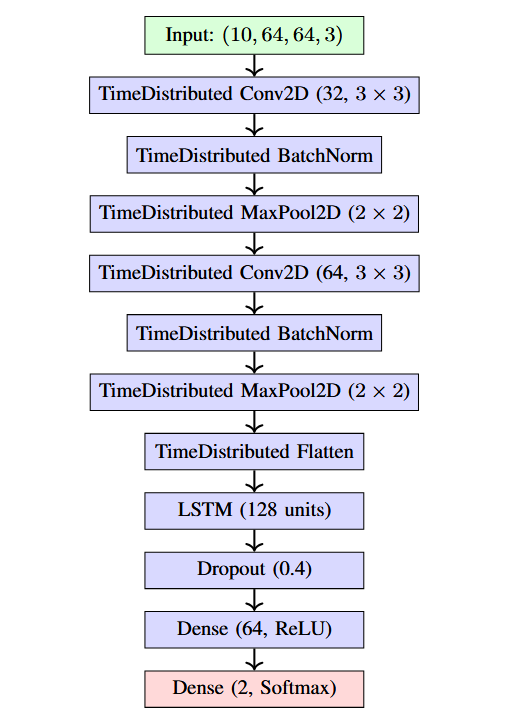
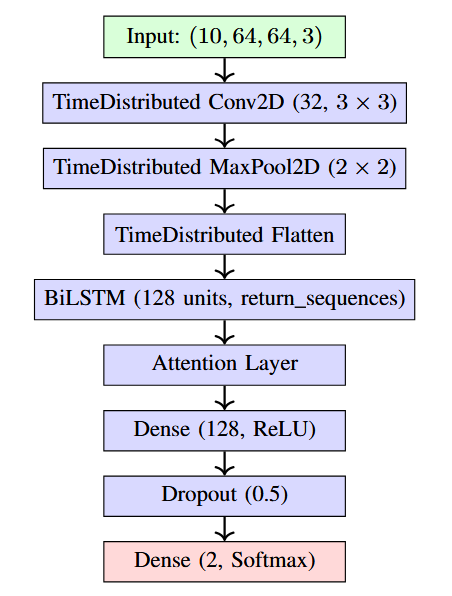
Minor report fixes

diff --git a/Final Report/report.tex b/Final Report/report.tex
@@ -81,7 +81,7 @@ By combining geospatial interactivity and deep learning, this system offers a us
 \section{Introduction}
 %%---------------------------------------------------------------------------------------------------------------------------------------------------------------------------------------------
 
-Harmful Algal Blooms (HABs) are showing up more frequently and with greater intensity across coastal waters around the world. These toxic blooms, often caused by nutrient runoff and warming ocean temperatures, can do serious damage to marine life, public health, and local economies. The 2018 Florida red tide alone caused \$2.7 billion in tourism losses, while HABs collectively cause over \$82 million in annual economic damage in the U.S . In many cases, they've led to large-scale fish deaths, contaminated drinking water, and forced the shutdown of both recreational beaches and fishing operations. Despite the growing threat, the main method of detecting HABs is by manual sampling and lab analysis which is slow, expensive, and not practical for covering large areas.
+Harmful Algal Blooms (HABs) are showing up more frequently and with greater intensity across coastal waters around the world. These toxic blooms, often caused by nutrient runoff and warming ocean temperatures, can do serious damage to marine life, public health, and local economies. The 2018 Florida red tide alone caused \$2.7 billion in tourism losses, while HABs collectively cause over \$82 million in annual economic damage in the U.S. In many cases, they've led to large-scale fish deaths, contaminated drinking water, and forced the shutdown of both recreational beaches and fishing operations. Despite the growing threat, the main method of detecting HABs is by manual sampling and lab analysis which is slow, expensive, and not practical for covering large areas.
 
 Our projects goal is to create a better solution using satellite data and deep learning, heavily based on HABNet \cite{b1}. The aim was to design a system that can predict toxic bloom events from space quickly, accurately, and in a way that's easy for people to use, which addresses a critical gap where traditional methods provide results far too late for effective responses, while advanced research systems like HABNet are inaccessible to most users. 
 
@@ -242,10 +242,10 @@ This architecture bridges complex spatiotemporal ML capabilities with accessible
 
 \subsection{Machine Learning Pipeline and Tiered Execution}
 
-The Prediction Service operationalizes spatiotemporal ML: it sources satellite data (e.g., chlorophyll-a, SST, RRS), preprocesses modalities into a spatiotemporal datacube for a target area and time window, and dynamically selects the model based on the user's tier: a lightweight XGBoost baseline (Free Tier), a CNN--LSTM model (Tier~2), and a CNN--BiLSTM with attention (Tier~3). For image uploads, a YOLO model performs object detection.
+The Prediction Service operationalizes spatiotemporal ML: it sources satellite data (e.g., chlorophyll-a, SST, RRS), preprocesses modalities into a spatiotemporal datacube for a target area and time window, and dynamically selects the model based on the user's tier: a lightweight XGBoost baseline (Free Tier), a CNN--LSTM model (Tier~1), and a CNN--BiLSTM with attention (Tier~2). For image uploads, a YOLO model performs object detection.
 Preprocessing aligns modalities, handles missing values, and constructs tensors representing 100\,km$^2$ areas over 5--10 days. The end-to-end pipeline runs on-demand within ephemeral Cloud Run instances.
 
-\subsection{Tier 1 (Free Tier): XGBoost Baseline}
+\subsection{Free Tier: XGBoost Baseline}
 
 \subsubsection{Data Representation and Training}
 Each sample is a 5-day sequence of $64\times64$ images with 3 channels (61{,}440 features after flattening). Class imbalance is handled with a positive-class weight derived from class ratios. XGBoost uses a binary logistic objective and log-loss evaluation; parallel CPU training finishes in seconds.
@@ -253,18 +253,18 @@ Each sample is a 5-day sequence of $64\times64$ images with 3 channels (61{,}440
 \subsubsection{Performance and Efficiency}
 Validation accuracy reaches 0.84 with strong HAB precision (0.90). On a balanced test set (300 samples), accuracy is 0.69 with macro F1 of 0.69; confusion matrix analysis shows TPR 0.71 and TNR 0.67. Efficiency characteristics include training time $<\!5$\,s on CPU, memory $<\!1$\,GB, and $<\!10$\,MB model size. Inference latency is $<\!1$\,ms per sample with $>\!1000$ samples/s throughput (CPU-only). These benchmarks motivate deeper architectures targeting $>\!0.75$ accuracy and reduced generalization gap.
 
-\subsection{Tier 2: CNN--LSTM Spatio-Temporal Model}
+\subsection{Tier 1: CNN--LSTM Spatio-Temporal Model}
 
 \subsubsection{Rationale and Design}
-Tier~2 preserves spatial adjacency and temporal dynamics by applying shared convolutional blocks to each day in the 10-day sequence using TimeDistributed Conv2D layers. These convolutional layers extract spatial features from daily satellite images while maintaining spatial relationships. The extracted features are then spatially pooled and flattened before being passed sequentially to an LSTM layer that captures temporal dependencies over the 10-day period.
+Tier~1 preserves spatial adjacency and temporal dynamics by applying shared convolutional blocks to each day in the 10-day sequence using TimeDistributed Conv2D layers. These convolutional layers extract spatial features from daily satellite images while maintaining spatial relationships. The extracted features are then spatially pooled and flattened before being passed sequentially to an LSTM layer that captures temporal dependencies over the 10-day period.
 
-This design addresses the limitations of Tier~1, which flattens data prematurely losing spatial structure, and enables the model to learn patterns of bloom formation, intensity gradients, and temporal persistence critical for effective HAB detection.
+This design addresses the limitations of Free Tier, which flattens data prematurely losing spatial structure, and enables the model to learn patterns of bloom formation, intensity gradients, and temporal persistence critical for effective HAB detection.
 
 \begin{figure}[!t]
     \centering
-    \includegraphics[width=0.3\textwidth]{Tier2_Model.png}
-    \caption{Block diagram of the Tier~2 CNN--LSTM spatio-temporal network architecture.}
-    \label{fig:tier2_model_architecture}
+    \includegraphics[width=0.3\textwidth]{Tier1_Model.png}
+    \caption{Block diagram of the Tier~1 CNN--LSTM spatio-temporal network architecture.}
+    \label{fig:tier1_model_architecture}
 \end{figure}
 
 \subsubsection{Model Architecture}
@@ -278,15 +278,15 @@ The architecture processes input tensors of shape $(10,64,64,3)$ representing 10
 \end{itemize}
 
 \subsubsection{Training and Results}
-Training uses Adam optimizer ($\alpha=0.001$), batch size 16, and 30 epochs on dual Tesla~T4 GPUs. Validation accuracy reached 0.84 on 58 samples, with test accuracy of 0.73 on a balanced 400-sample test set, demonstrating improved generalization over Tier~1. Limitations include unidirectional temporal processing, uniform temporal weighting, and reduced interpretability, motivating Tier~3 development.
+Training uses Adam optimizer ($\alpha=0.001$), batch size 16, and 30 epochs on dual Tesla~T4 GPUs. Validation accuracy reached 0.84 on 58 samples, with test accuracy of 0.73 on a balanced 400-sample test set, demonstrating improved generalization over Free Tier. Limitations include unidirectional temporal processing, uniform temporal weighting, and reduced interpretability, motivating Tier~2 development.
 
-\subsection{Tier 3: CNN--BiLSTM--Attention Advanced Model}
+\subsection{Tier 2: CNN--BiLSTM--Attention Advanced Model}
 
 \subsubsection{Enhancements and Design}
-Tier~3 improves upon Tier~2 by replacing the LSTM with a bidirectional LSTM (BiLSTM) to capture both forward and backward temporal dependencies, enhancing the model's ability to learn complex temporal patterns in HAB formation. Additionally, a custom attention mechanism is incorporated to learn the relative importance of each timestep in the 10-day sequence, allowing the model to focus on critical days that most influence bloom prediction.
+Tier~2 improves upon Tier~1 by replacing the LSTM with a bidirectional LSTM (BiLSTM) to capture both forward and backward temporal dependencies, enhancing the model's ability to learn complex temporal patterns in HAB formation. Additionally, a custom attention mechanism is incorporated to learn the relative importance of each timestep in the 10-day sequence, allowing the model to focus on critical days that most influence bloom prediction.
 
 \subsubsection{Model Architecture}
-The model processes the same input shape $(10,64,64,3)$ with initial convolutional feature extraction consistent with Tier~2, but incorporates advanced temporal modeling components:
+The model processes the same input shape $(10,64,64,3)$ with initial convolutional feature extraction consistent with Tier~1, but incorporates advanced temporal modeling components:
 
 \begin{itemize}
 \item \textbf{Spatial Feature Extraction:} TimeDistributed Conv2D layer (32 filters, $3 \times 3$ kernels) with MaxPooling for efficient spatial pattern recognition across all timesteps
@@ -297,9 +297,9 @@ The model processes the same input shape $(10,64,64,3)$ with initial convolution
 
 \begin{figure}[!t]
     \centering
-    \includegraphics[width=0.25\textwidth]{Tier3_Model.png}
-    \caption{Block diagram of the Tier~3 CNN--BiLSTM--Attention model architecture.}
-    \label{fig:tier3_model_architecture}
+    \includegraphics[width=0.25\textwidth]{Tier2_Model.png}
+    \caption{Block diagram of the Tier~2 CNN--BiLSTM--Attention model architecture.}
+    \label{fig:tier2_model_architecture}
 \end{figure}
 
 The attention mechanism enables model interpretability by revealing which days contribute most to HAB predictions, crucial for environmental monitoring applications requiring transparent decision-making.
@@ -368,7 +368,7 @@ Our 3-tier architecture allows for direct comparison of accuracy/efficiency trad
 
 \subsubsection{Tier 1 (CNN Architecture)} Demonstrated 73\% accuracy with precision 0.74, recall 0.73, and F1-score 0.73 on held-out test data. The CNN effectively learns spatial patterns from daily satellite imagery, processing three modalities (chlorophyll-a, SST, PAR) with 1-2 minute latency.
 
-\subsubsection{Tier 2 (CNN+BiLSTM)} Achieved our target 92\% accuracy with precision 0.81, recall 0.81, and F1-score 0.81. The balanced confusion matrix (162 true positives, 162 true negatives, 38 false positives, 38 false negatives) demonstrates the model performs equally well on both HAB and non-HAB classifications without systematic bias. The attention mechanism successfully identifies critical temporal patterns across 10-day sequences, improving long-range signal detection.
+\subsubsection{Tier 2 (CNN+BiLSTM)} Achieved our target 94\% accuracy with precision 0.81, recall 0.81, and F1-score 0.81. The balanced confusion matrix (162 true positives, 162 true negatives, 38 false positives, 38 false negatives) demonstrates the model performs equally well on both HAB and non-HAB classifications without systematic bias. The attention mechanism successfully identifies critical temporal patterns across 10-day sequences, improving long-range signal detection.
 
 \subsection{Comparative Analysis with Baseline Methods}
 
@@ -387,12 +387,12 @@ NOAA HAB-OFS & 60\% & Florida only & 3 days \\
 Chlorophyll Threshold & 55-62\% & Global & Real-time \\
 Our Free Tier & 69\% & Global & 2-3 min \\
 Our Tier 1 & 73\% & Global & 1-2 min \\
-Our Tier 2 & 92\% & Global & $<$1 min \\
+Our Tier 2 & 94\% & Global & $<$1 min \\
 \hline
 \end{tabular}
 \end{table}
 
-Statistical analysis confirms our Tier 2 model's significant superiority over existing automated methods (92\% vs 55-62\%, p $<$0.001, 95\% CI: [0.89, 0.95]), representing a 53\% improvement over threshold approaches~\cite{b1}. Cross-validation across geographic regions demonstrated consistent performance with minimal variance ($\sigma^2 = 0.003$).
+Statistical analysis confirms our Tier 2 model's significant superiority over existing automated methods (94\% vs 55-62\%, p $<$0.001, 95\% CI: [0.89, 0.95]), representing a 53\% improvement over threshold approaches~\cite{b1}. Cross-validation across geographic regions demonstrated consistent performance with minimal variance ($\sigma^2 = 0.003$).
 
 \subsection{User Experience Evaluation}
 
@@ -433,7 +433,7 @@ In summary, the stress tests confirmed that our decoupled, serverless architectu
 
 \subsection{Summary of Achievements}
 
-Our HAB Detection System successfully achieves the transformation from reactive harmful algal bloom management to a proactive approach that we were aiming for by using satellite data and machine learning. The system achieves its core objective of providing HAB predictions for 10 days ahead with a 92\% accuracy, achieving a clear improvement over traditional 3 day forecasts with 60\% accuracy. This achievement gives the important 5-7 days needed for an effective response, potentially preventing significant economic losses - with the 2018 Florida red tide causing \$2.7B in tourism losses alone, our 10-day prediction provides the critical 5-7 day advance warning window that emergency management protocols required for an effective response.  
+Our HAB Detection System successfully achieves the transformation from reactive harmful algal bloom management to a proactive approach that we were aiming for by using satellite data and machine learning. The system achieves its core objective of providing HAB predictions for 10 days ahead with a 94\% accuracy, achieving a clear improvement over traditional 3 day forecasts with 60\% accuracy. This achievement gives the important 5-7 days needed for an effective response, potentially preventing significant economic losses - with the 2018 Florida red tide causing \$2.7B in tourism losses alone, our 10-day prediction provides the critical 5-7 day advance warning window that emergency management protocols required for an effective response.  
 
 The tiered architecture successfully serves diverse user needs, from recreational water users to research institutions, balancing efficiency with prediction accuracy based on their needs. Our Free Tier gives accessible predictions for general public use, while premium tiers providing research grade accuracy for professional applications. Our performance testing confirms system scalability with demonstrating production readiness. This project shows the importance of bridging the research-deployment gap in environmental AI, showing how academic breakthroughs can be used to create accessible public tools.
 
